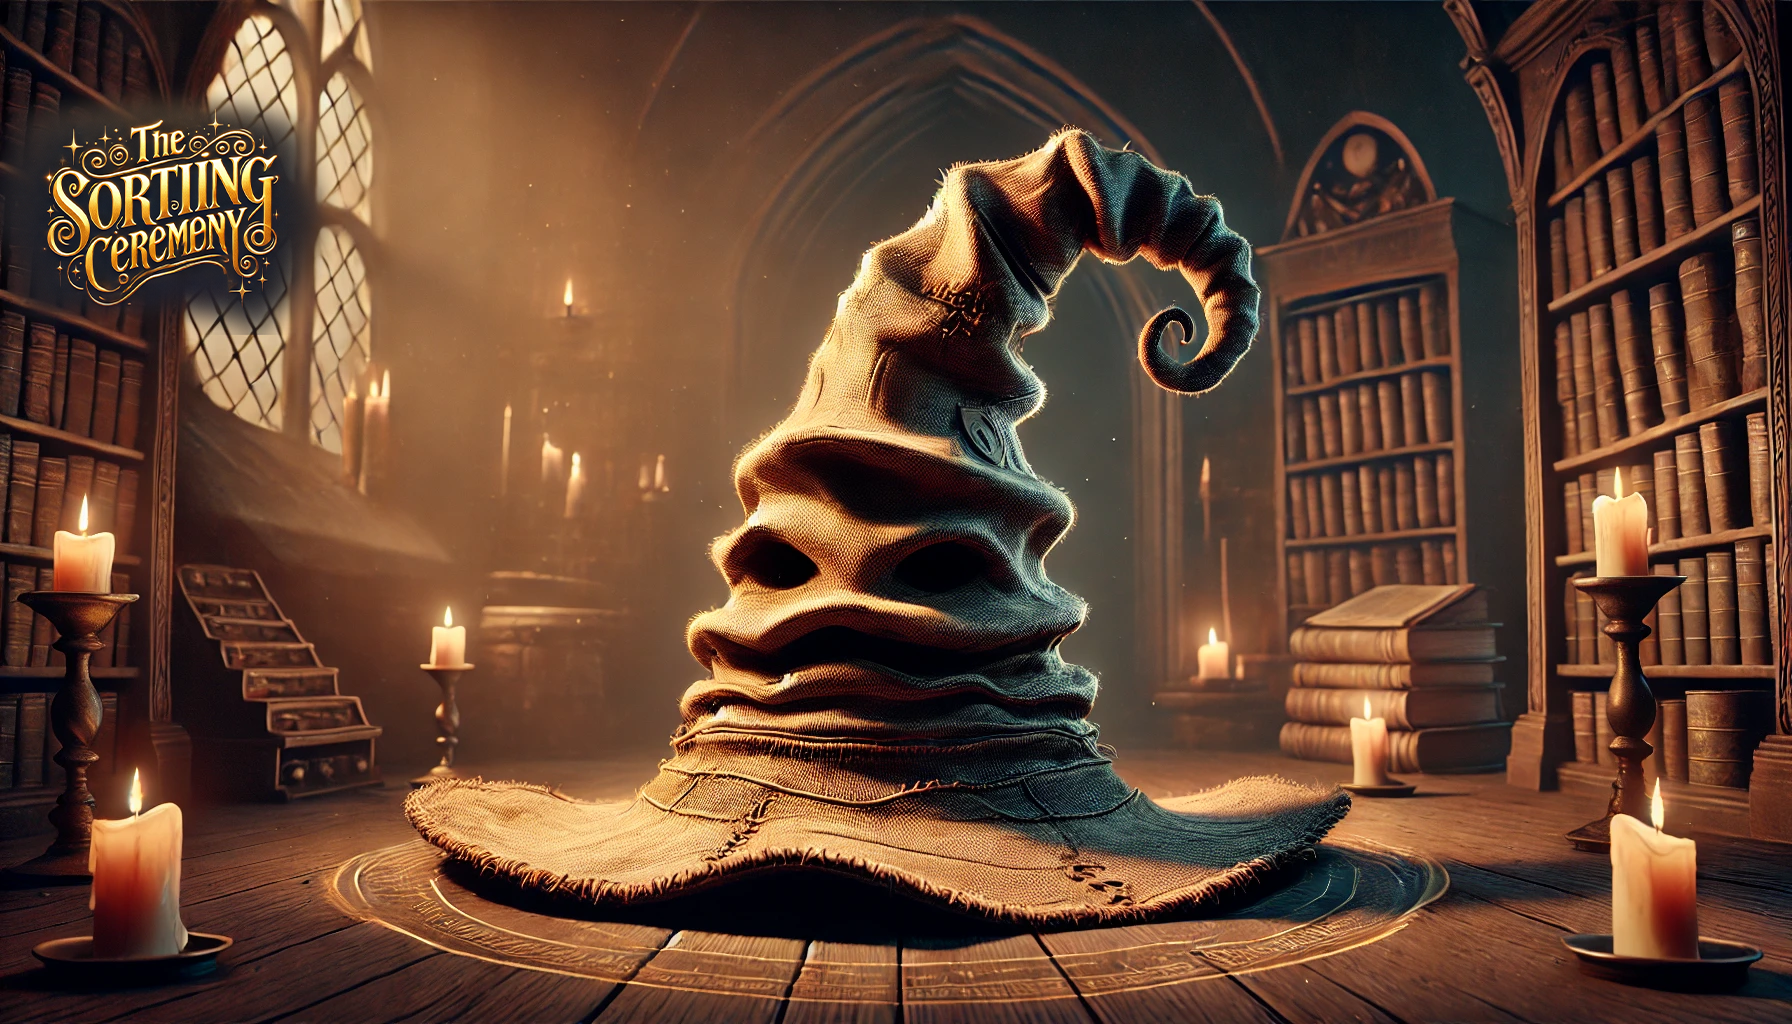
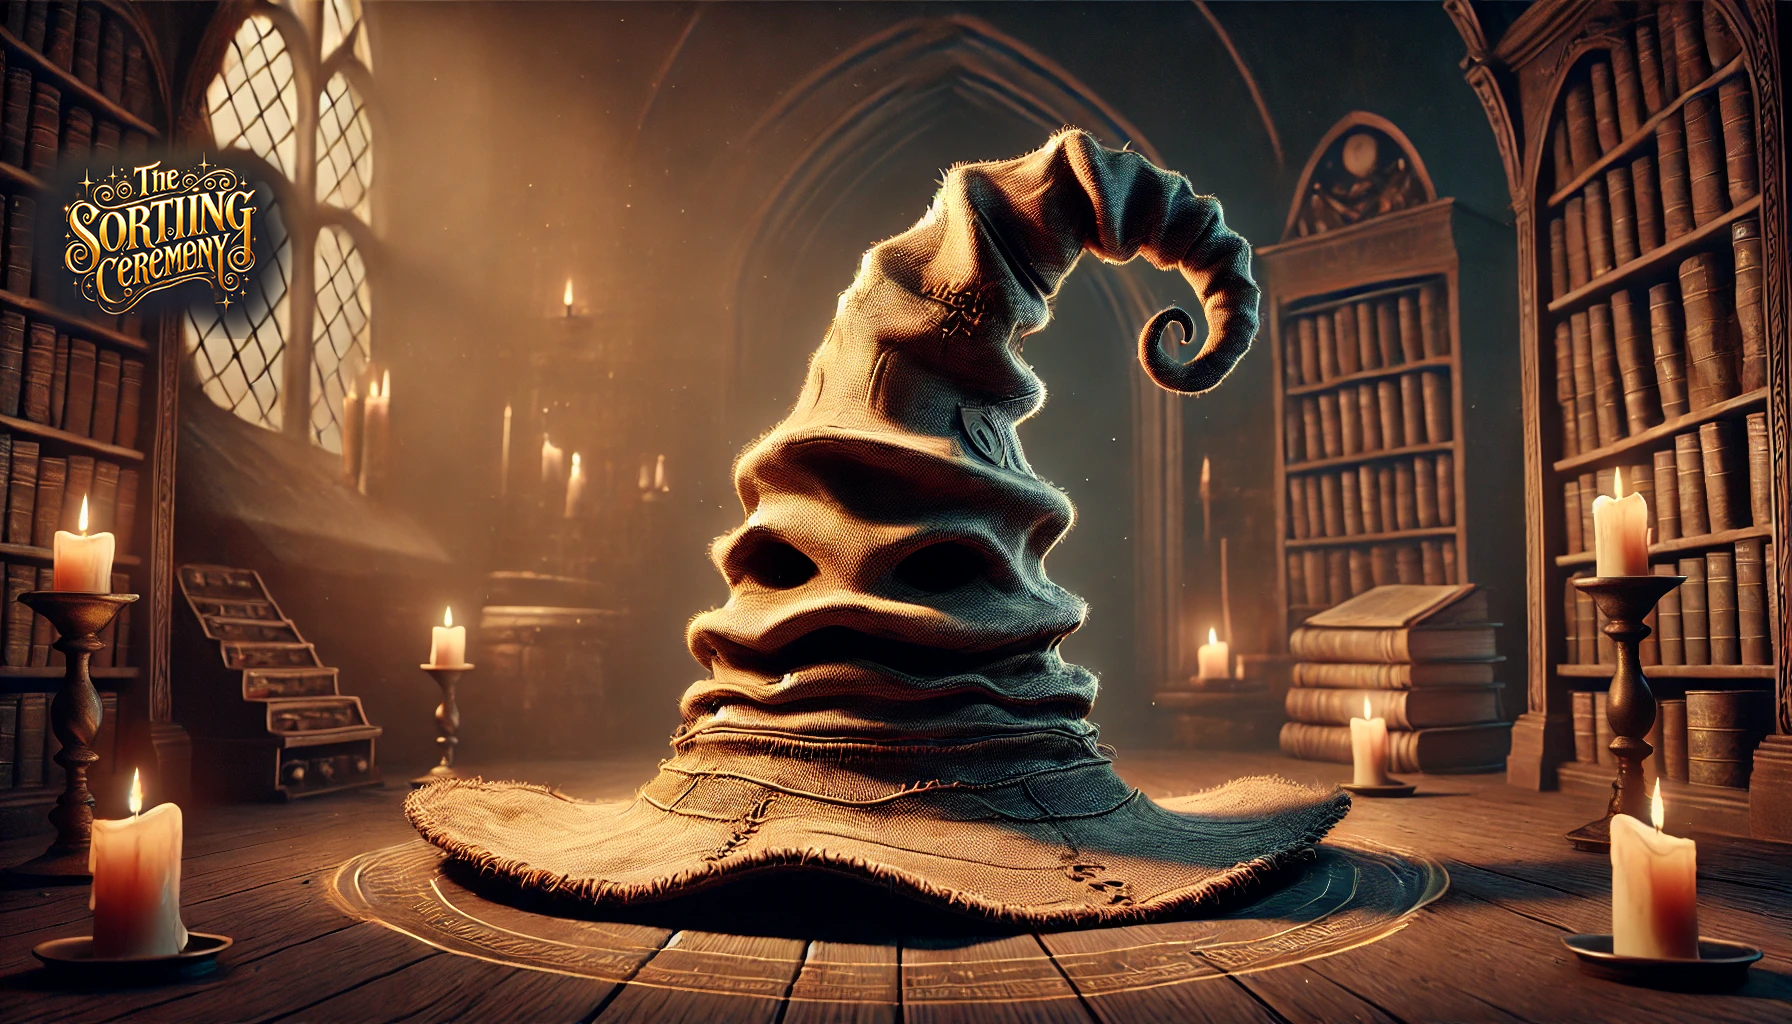
Removed old background image, changed scroll to top behavior, changed styles for links.

Changed region(s): [[0.0, 0.0938, 0.1875, 0.3438]]

diff --git a/index.html b/index.html
@@ -27,10 +27,11 @@
         <img src="hogwarts-logo.png" alt="Hogwarts Logo" class="hogwarts-logo">
     </div>
     <div id="result-container"></div>
-	<div id="credits">Credits:
-	<br>DALL-E for images.
-	<br>Music by <a href="https://pixabay.com/users/geoffharvey-9096471/?utm_source=link-attribution&utm_medium=referral&utm_campaign=music&utm_content=150606">Geoff Harvey</a> from <a href="https://pixabay.com//?utm_source=link-attribution&utm_medium=referral&utm_campaign=music&utm_content=150606">Pixabay</a>
-	<br>Click sound effect: https://pixabay.com/sound-effects/080245-sfx-magic-84935/
-	<br>Reveal sound effect: https://pixabay.com/sound-effects/magic-spell-shoot-sound-effect-full-pack-link-in-comments-236816/</div>
+	<div id="credits">
+	<br>DALL·E for images.
+	<br>Music by <a href="https://pixabay.com/users/geoffharvey-9096471/?utm_source=link-attribution&utm_medium=referral&utm_campaign=music&utm_content=150606" target="_blank">Geoff Harvey</a> from <a href="https://pixabay.com//?utm_source=link-attribution&utm_medium=referral&utm_campaign=music&utm_content=150606" target="_blank">Pixabay</a>
+	<br><a href=https://pixabay.com/sound-effects/080245-sfx-magic-84935/ target="_blank">Click sound effect</a>
+	<br><a href=https://pixabay.com/sound-effects/magic-spell-shoot-sound-effect-full-pack-link-in-comments-236816/ target="_blank">Reveal sound effect</a>
+	<br>My <a href=https://www.patreon.com/Bishiba target="_blank">Patreon</a></div>
 </body>
 </html>

diff --git a/scripts.js b/scripts.js
@@ -93,7 +93,6 @@ let score = [];
                     <canvas id="houseChart"></canvas>
                 </div>
             `;
-            scrollToTop();
         }
 
         function handleOptionClick(playerIndex, optionIndex) {
@@ -121,6 +120,7 @@ let score = [];
             currentPlayerAnswers = Array.from({ length: numPlayers }, () => -1);
             currentQuestionIndex++;
             displayQuestion();
+			scrollToTop();
         }
 		
 		function previousQuestion() {
@@ -133,6 +133,7 @@ let score = [];
                 });
                 displayQuestion();
             }
+			scrollToTop();
         }
       
 		var showingResults = false;

diff --git a/styles.css b/styles.css
@@ -173,8 +173,9 @@ body {
 	height: auto;
 	z-index: 0;
 	cursor: pointer;
-	color: blue;
+	color: #3391ff;
 	text-decoration: underline;
+	font-size: 24px;
 }
 #music-name:hover {
 	color: white;
